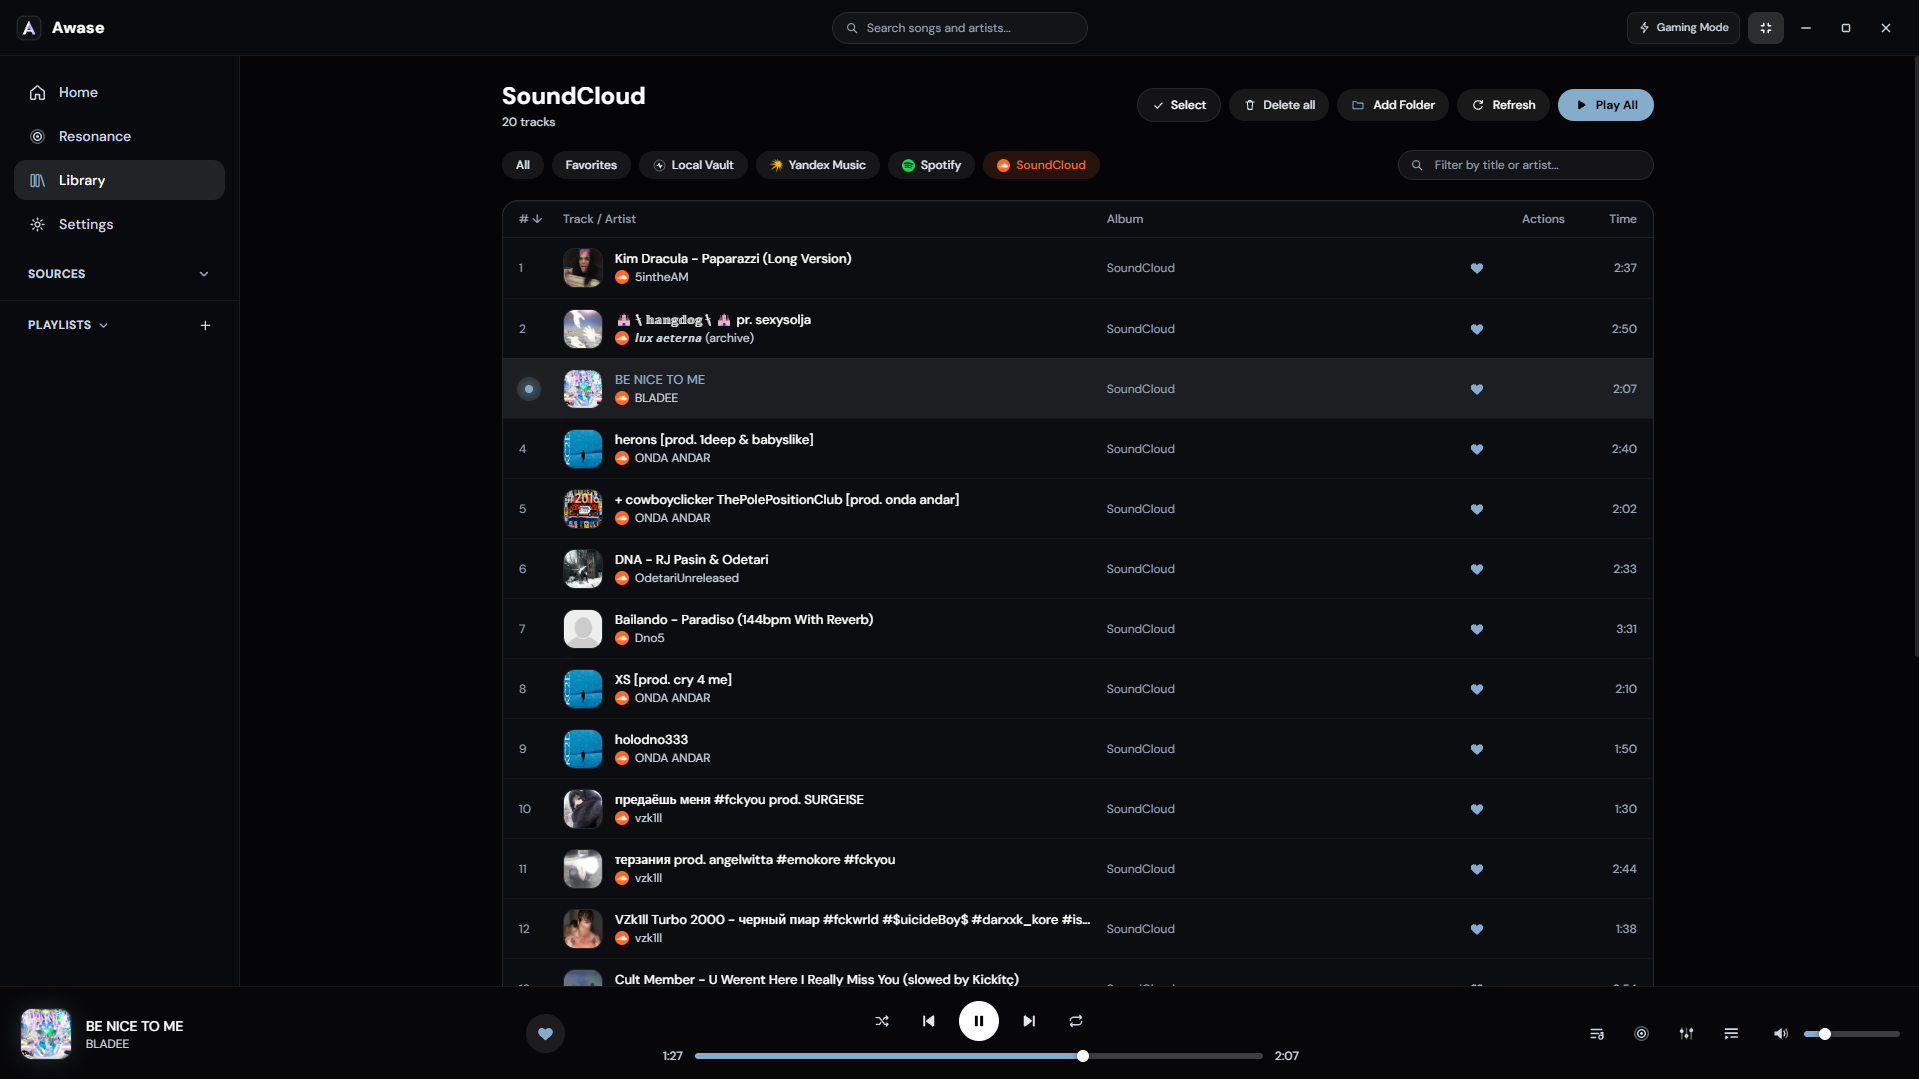
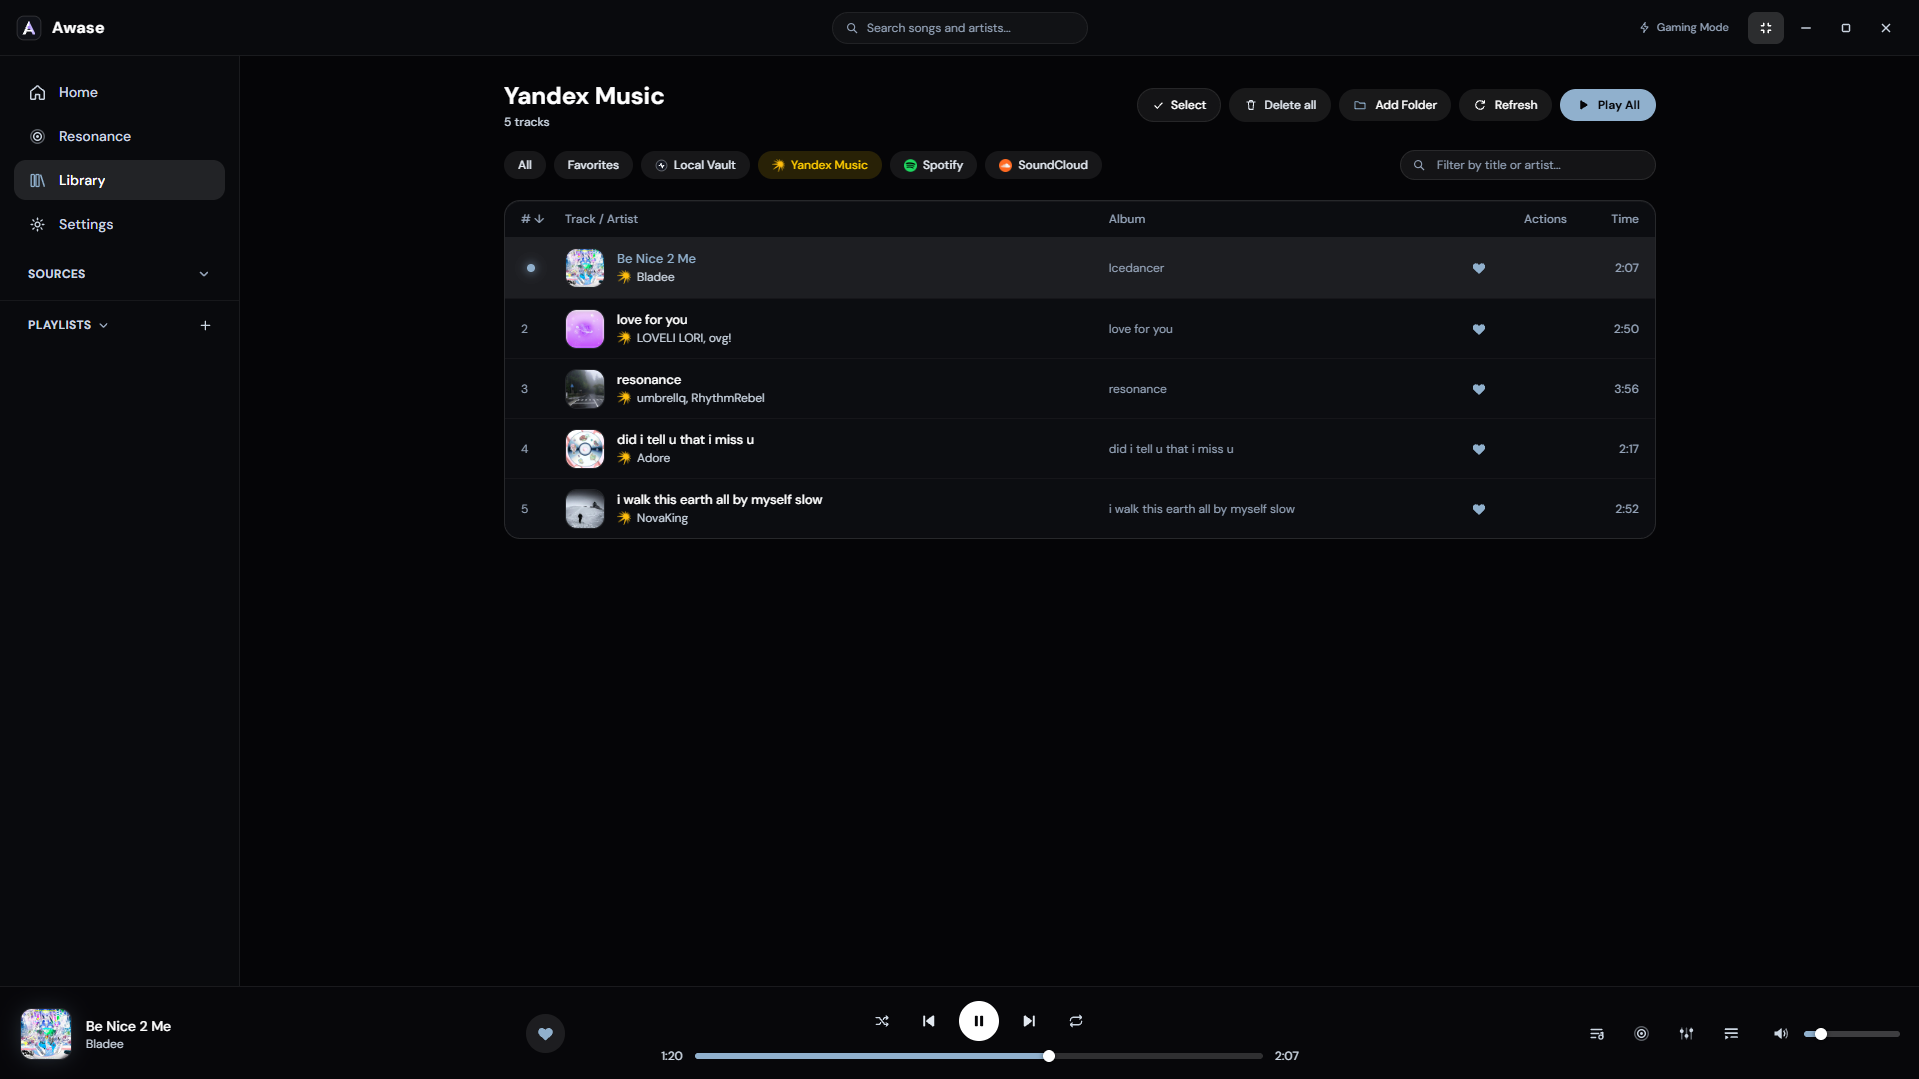
docs(v0.2.4): update previews and README for 0.2.4

diff --git a/README.ru.md b/README.ru.md
@@ -31,12 +31,12 @@
 ## Возможности
 
 - **Единая медиатека** — локальные папки (`FLAC`, `WAV`, `MP3`, `M4A`, `AAC`, `OGG` с обложками), **Яндекс Музыка**, **Spotify** и **SoundCloud** в быстром виртуализированном списке.
-- **Нативный аудиодвижок на Rust + 5-полосный эквалайзер** — декодирование через `rodio` + `symphonia` + `rustfft`, 32-полосный FFT-спектр в реальном времени, музыкальный эквалайзер (`60Hz` – `14kHz`) с автокомпенсацией перегрузок и выбором устройства вывода.
+- **Нативный аудиодвижок на Rust + 5-полосный эквалайзер** — декодирование через `rodio` + `symphonia` + `rustfft`, 32-полосный FFT-спектр в реальном времени, музыкальный эквалайзер (`60Hz` – `14kHz`) с полками, 8 пресетами, автокомпенсацией перегрузок и выбором устройства вывода.
 - **Визуализатор «Резонанс»** — три режима (**Аура**, **Шёлк**, **Орбита**), реагирующие на темп и цвета обложки, со встроенным управлением и полноэкранным режимом (`F11`).
-- **Spotify без Premium и SoundCloud HLS/fMP4** — импорт публичных плейлистов Spotify по ссылке или из `.csv`/`.json` без подписки Premium (с автоматическим подбором полных версий из подключённых сервисов), а также встроенный демуксер MPEG-TS и fMP4 -> AAC для SoundCloud.
+- **Spotify Premium SDK и SoundCloud HLS/fMP4** — прямое воспроизведение Spotify Premium через официальный Web Playback SDK (полная синхронизация плейлистов >100 треков, лайков и импорт из ссылки/`.csv`/`.json`), а также встроенный демуксер MPEG-TS и fMP4 -> AAC со встроенным RU-обходом для SoundCloud.
 - **Адаптивная и кастомная тема** — глубокий чёрный OLED-интерфейс с подстройкой акцентов под обложку трека, ручной настройкой цветов, шрифтов и стилей анимаций (`Fluid`, `Snappy`, `Silk`).
 - **Discord Rich Presence** — нативная интеграция статуса *«Слушает...»* с обложкой и таймером трека (отключается в настройках).
-- **Игровой режим и трей** — кнопка **Игровой режим** в шапке отключает размытие/canvas и сбрасывает неиспользуемую память (`SetProcessWorkingSetSize`), а закрытие окна сворачивает плеер в системный трей.
+- **Игровой режим и трей** — кнопка **Игровой режим** в шапке отключает canvas-рендеринг и анимации переходов, снижая нагрузку на RAM/CPU, а закрытие окна сворачивает плеер в системный трей.
 - **Экспорт и импорт настроек** — резервное копирование настроек, эквалайзера, папок, плейлистов и токенов в один `.json` файл.
 
 ---

diff --git a/README.md b/README.md
@@ -31,12 +31,12 @@
 ## Features
 
 - **Unified Library** — Combine local lossless folders (`FLAC`, `WAV`, `MP3`, `M4A`, `AAC`, `OGG` with embedded cover art) alongside **Yandex Music**, **Spotify**, and **SoundCloud** in a single high-FPS virtualized library.
-- **Native Rust Audio Engine & 5-Band EQ** — Powered by `rodio` + `symphonia` + `rustfft` with real-time 32-band FFT spectrum telemetry, musical 5-band parametric equalizer (`60Hz` – `14kHz`) with automatic preamp headroom, and custom output device selection.
+- **Native Rust Audio Engine & 5-Band EQ** — Powered by `rodio` + `symphonia` + `rustfft` with real-time 32-band FFT spectrum telemetry, musical 5-band parametric/shelf equalizer (`60Hz` – `14kHz`) with automatic preamp headroom and 8 presets, and custom output device selection.
 - **Resonance Visualizers** — Three cover-color-reactive Canvas visualizers (**Aura**, **Silk**, **Orbital**) with integrated playback controls and `F11` fullscreen mode.
-- **Zero-Premium Spotify & Native SoundCloud HLS/fMP4** — Import public Spotify playlists by URL or `.csv`/`.json` library exports without Premium (with automatic full-track matching across your connected sources), plus native Rust MPEG-TS & fMP4-to-ADTS-AAC demuxing for SoundCloud streams.
+- **Spotify Premium SDK & Native SoundCloud HLS/fMP4** — Direct Spotify Premium playback via official Web Playback SDK (`>100` track playlists, likes & `.csv`/`.json` import), plus native Rust MPEG-TS & fMP4-to-ADTS-AAC demuxing and built-in RU ISP bypass for SoundCloud streams.
 - **Cover-Adaptive & Custom Themes** — Pure OLED obsidian interface that adapts accents to the current track's album art, or lets you pick custom accent/background colors, typography, and motion presets (`Fluid`, `Snappy`, `Silk`).
 - **Discord Rich Presence** — Native Windows Named Pipe IPC (`Listening to ...`) with track title, artist, cover art, and live progress bar (toggleable in Settings).
-- **Gaming Mode & System Tray** — One-click **Gaming Mode** disables blur/canvas rendering, throttles telemetry, and trims the OS working set for minimal background RAM/CPU. Closing the window minimizes smoothly to the Windows system tray.
+- **Gaming Mode & System Tray** — One-click **Gaming Mode** disables canvas rendering & view animations and throttles telemetry for minimal background RAM/CPU. Closing the window minimizes smoothly to the Windows system tray.
 - **Full Settings Backup** — Export and import your UI preferences, EQ curve, local folders, playlists, and connected tokens as a single `.json` file.
 
 ---
